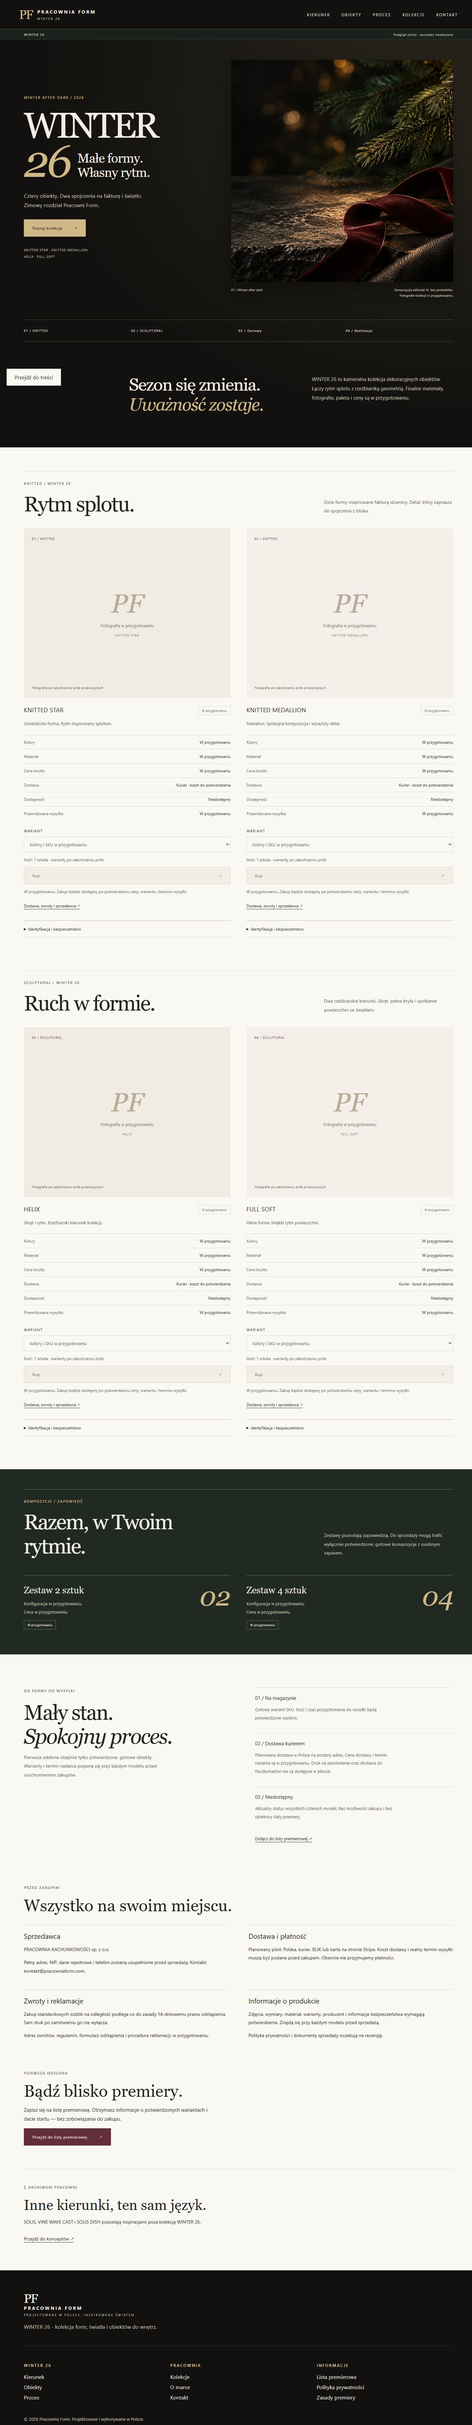
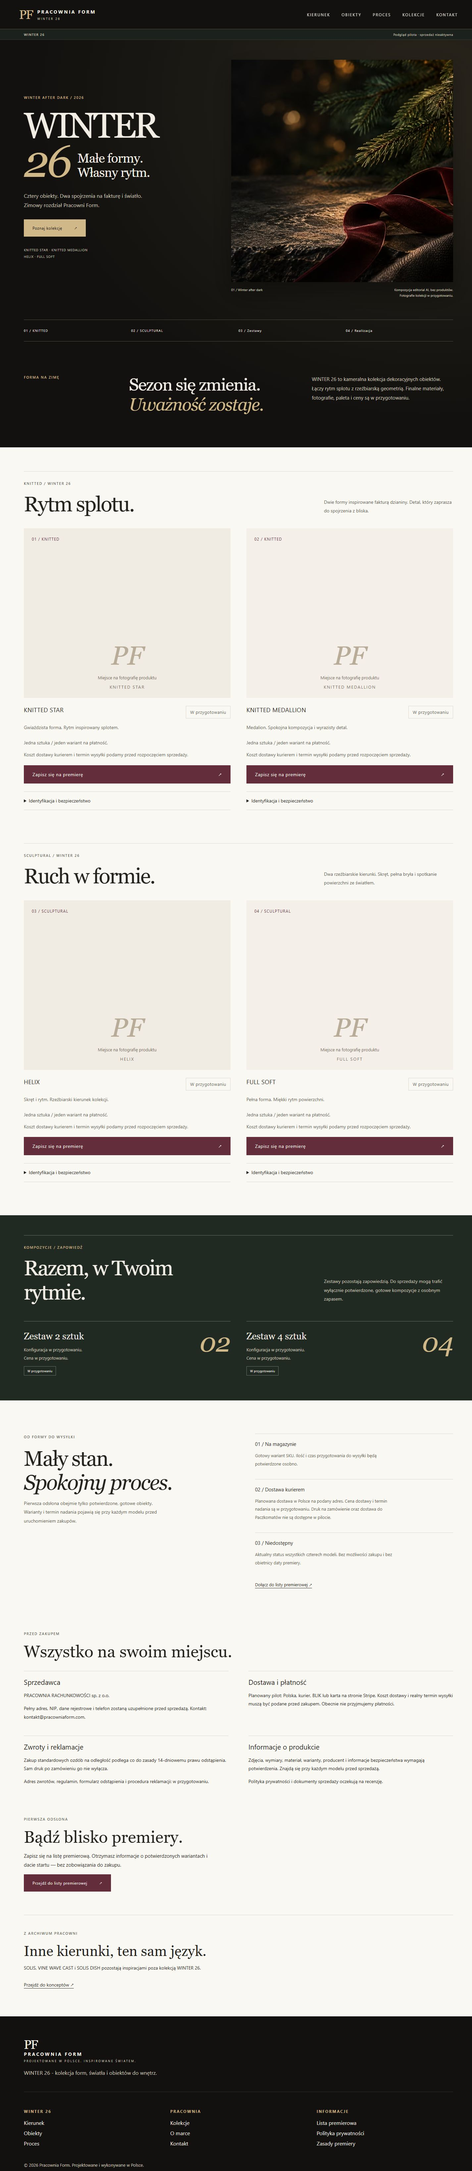
fix: simplify pilot preview cards after review

diff --git a/previews/lean-pilot/winter-26.html b/previews/lean-pilot/winter-26.html
@@ -89,22 +89,22 @@
 <main id="main"><div class="winter-opening"><section class="w26-hero shell" aria-labelledby="winter-title"><div class="w26-hero-copy"><p class="eyebrow">Winter after dark / 2026</p><h1 id="winter-title">WINTER<br><em>26</em><span>Małe formy.<br>Własny rytm.</span></h1><p>Cztery obiekty. Dwa spojrzenia na fakturę i światło. Zimowy rozdział Pracowni Form.</p><a class="editorial-button" href="#knitted">Poznaj kolekcję <span aria-hidden="true">↗</span></a><p class="hero-caption">KNITTED STAR · KNITTED MEDALLION<br>HELIX · FULL SOFT</p></div><figure class="w26-hero-art"><picture><source type="image/avif" srcset="assets/winter-r04-480.avif 480w, assets/winter-r04-768.avif 768w, assets/winter-r04-1024.avif 1024w, assets/winter-r04-1536.avif 1536w" sizes="(max-width: 600px) 135vw, (max-width: 1466px) 69.8vw, 1023px"><img src="assets/winter-r04-1024.webp" srcset="assets/winter-r04-480.webp 480w, assets/winter-r04-768.webp 768w, assets/winter-r04-1024.webp 1024w, assets/winter-r04-1536.webp 1536w" sizes="(max-width: 600px) 135vw, (max-width: 1466px) 69.8vw, 1023px" width="1536" height="1024" fetchpriority="high" alt="Editorial: igliwie, burgundowa wstążka i ciepłe światło na ciemnym kamieniu, bez produktów"></picture><figcaption>01 / Winter after dark <span>Kompozycja editorial AI, bez produktów.<br>Fotografie kolekcji w przygotowaniu.</span></figcaption></figure></section>
 <nav class="collection-nav shell" aria-label="Sekcje WINTER 26"><a href="#knitted">01 / KNITTED</a><a href="#sculptural">02 / SCULPTURAL</a><a href="#zestawy">03 / Zestawy</a><a href="#realizacja">04 / Realizacja</a></nav>
 <section class="w26-intro shell" id="kierunek"><p class="eyebrow">Forma na zimę</p><h2>Sezon się zmienia.<br><em>Uważność zostaje.</em></h2><p>WINTER 26 to kameralna kolekcja dekoracyjnych obiektów. Łączy rytm splotu z rzeźbiarską geometrią. Finalne materiały, fotografie, paleta i ceny są w przygotowaniu.</p></section></div><span id="obiekty" aria-hidden="true"></span><section class="family shell" id="knitted" aria-labelledby="title-knitted"><div class="family-heading"><div><p class="eyebrow">KNITTED / WINTER 26</p><h2 id="title-knitted">Rytm splotu.</h2></div><p>Dwie formy inspirowane fakturą dzianiny. Detal, który zaprasza do spojrzenia z bliska.</p></div><div class="product-grid"><article class="product-card" id="knitted-star" aria-labelledby="name-knitted-star">
-<div class="product-photo"><span class="photo-index">01 / KNITTED</span><div class="photo-placeholder"><span class="placeholder-mark" aria-hidden="true">PF</span><p>Fotografia w przygotowaniu</p><small>KNITTED STAR</small></div><span class="photo-caption">Fotografia po zakończeniu prób produkcyjnych</span></div>
+<div class="product-photo"><span class="photo-index">01 / KNITTED</span><div class="photo-placeholder"><span class="placeholder-mark" aria-hidden="true">PF</span><p>Miejsce na fotografię produktu</p><small>KNITTED STAR</small></div></div>
 <div class="product-heading"><h3 id="name-knitted-star">KNITTED STAR</h3><span class="status-pill">W przygotowaniu</span></div><p class="product-description">Gwiaździsta forma. Rytm inspirowany splotem.</p>
-<dl class="product-facts"><div><dt>Kolory</dt><dd>W przygotowaniu</dd></div><div><dt>Materiał</dt><dd>W przygotowaniu</dd></div><div><dt>Cena brutto</dt><dd>W przygotowaniu</dd></div><div><dt>Dostawa</dt><dd>Kurier · koszt do potwierdzenia</dd></div><div><dt>Dostępność</dt><dd>Niedostępny</dd></div><div><dt>Przewidywana wysyłka</dt><dd>W przygotowaniu</dd></div></dl>
-<div class="purchase-panel"><label for="variant-knitted-star">Wariant</label><select id="variant-knitted-star" disabled><option>Kolory i SKU w przygotowaniu</option></select><p class="purchase-quantity">Ilość: 1 sztuka · warianty po zakończeniu prób</p><button class="editorial-button purchase-button" type="button" disabled aria-describedby="note-knitted-star">Kup <span aria-hidden="true">↗</span></button><p class="purchase-note" id="note-knitted-star">W przygotowaniu. Zakup będzie dostępny po potwierdzeniu ceny, wariantu i terminu wysyłki.</p><a class="text-link" href="#przed-zakupem">Dostawa, zwroty i sprzedawca ↗</a></div><details class="product-details"><summary>Identyfikacja i bezpieczeństwo</summary><p>Model: KNITTED STAR. SKU wariantu, wymiary i identyfikator partii: do potwierdzenia.</p><p>Producent, adres pocztowy i kontakt elektroniczny: do potwierdzenia dla tego modelu. Dane sprzedawcy znajdują się w <a href="#przed-zakupem">kontakcie</a>.</p><p>Informacje bezpieczeństwa i instrukcja w języku polskim: w przygotowaniu po ocenie ryzyka i testach. Przed sprzedażą zostaną umieszczone także na produkcie, opakowaniu lub w dołączonej dokumentacji, odpowiednio do wymogów. Kod QR może je jedynie uzupełniać.</p></details></article><article class="product-card" id="knitted-medallion" aria-labelledby="name-knitted-medallion">
-<div class="product-photo"><span class="photo-index">02 / KNITTED</span><div class="photo-placeholder"><span class="placeholder-mark" aria-hidden="true">PF</span><p>Fotografia w przygotowaniu</p><small>KNITTED MEDALLION</small></div><span class="photo-caption">Fotografia po zakończeniu prób produkcyjnych</span></div>
+
+<div class="premiere-action"><p class="purchase-quantity">Jedna sztuka / jeden wariant na płatność.</p><p class="purchase-note">Koszt dostawy kurierem i termin wysyłki podamy przed rozpoczęciem sprzedaży.</p><a class="editorial-button" href="../../index.html#preorder">Zapisz się na premierę <span aria-hidden="true">↗</span></a></div><details class="product-details"><summary>Identyfikacja i bezpieczeństwo</summary><p>Dane producenta, identyfikacja produktu i informacje bezpieczeństwa zostaną potwierdzone po próbach produkcyjnych. Przed zakupem będą dostępne w karcie produktu.</p></details></article><article class="product-card" id="knitted-medallion" aria-labelledby="name-knitted-medallion">
+<div class="product-photo"><span class="photo-index">02 / KNITTED</span><div class="photo-placeholder"><span class="placeholder-mark" aria-hidden="true">PF</span><p>Miejsce na fotografię produktu</p><small>KNITTED MEDALLION</small></div></div>
 <div class="product-heading"><h3 id="name-knitted-medallion">KNITTED MEDALLION</h3><span class="status-pill">W przygotowaniu</span></div><p class="product-description">Medalion. Spokojna kompozycja i wyrazisty detal.</p>
-<dl class="product-facts"><div><dt>Kolory</dt><dd>W przygotowaniu</dd></div><div><dt>Materiał</dt><dd>W przygotowaniu</dd></div><div><dt>Cena brutto</dt><dd>W przygotowaniu</dd></div><div><dt>Dostawa</dt><dd>Kurier · koszt do potwierdzenia</dd></div><div><dt>Dostępność</dt><dd>Niedostępny</dd></div><div><dt>Przewidywana wysyłka</dt><dd>W przygotowaniu</dd></div></dl>
-<div class="purchase-panel"><label for="variant-knitted-medallion">Wariant</label><select id="variant-knitted-medallion" disabled><option>Kolory i SKU w przygotowaniu</option></select><p class="purchase-quantity">Ilość: 1 sztuka · warianty po zakończeniu prób</p><button class="editorial-button purchase-button" type="button" disabled aria-describedby="note-knitted-medallion">Kup <span aria-hidden="true">↗</span></button><p class="purchase-note" id="note-knitted-medallion">W przygotowaniu. Zakup będzie dostępny po potwierdzeniu ceny, wariantu i terminu wysyłki.</p><a class="text-link" href="#przed-zakupem">Dostawa, zwroty i sprzedawca ↗</a></div><details class="product-details"><summary>Identyfikacja i bezpieczeństwo</summary><p>Model: KNITTED MEDALLION. SKU wariantu, wymiary i identyfikator partii: do potwierdzenia.</p><p>Producent, adres pocztowy i kontakt elektroniczny: do potwierdzenia dla tego modelu. Dane sprzedawcy znajdują się w <a href="#przed-zakupem">kontakcie</a>.</p><p>Informacje bezpieczeństwa i instrukcja w języku polskim: w przygotowaniu po ocenie ryzyka i testach. Przed sprzedażą zostaną umieszczone także na produkcie, opakowaniu lub w dołączonej dokumentacji, odpowiednio do wymogów. Kod QR może je jedynie uzupełniać.</p></details></article></div></section><section class="family shell" id="sculptural" aria-labelledby="title-sculptural"><div class="family-heading"><div><p class="eyebrow">SCULPTURAL / WINTER 26</p><h2 id="title-sculptural">Ruch w formie.</h2></div><p>Dwa rzeźbiarskie kierunki. Skręt, pełna bryła i spotkanie powierzchni ze światłem.</p></div><div class="product-grid"><article class="product-card" id="helix" aria-labelledby="name-helix">
-<div class="product-photo"><span class="photo-index">03 / SCULPTURAL</span><div class="photo-placeholder"><span class="placeholder-mark" aria-hidden="true">PF</span><p>Fotografia w przygotowaniu</p><small>HELIX</small></div><span class="photo-caption">Fotografia po zakończeniu prób produkcyjnych</span></div>
+
+<div class="premiere-action"><p class="purchase-quantity">Jedna sztuka / jeden wariant na płatność.</p><p class="purchase-note">Koszt dostawy kurierem i termin wysyłki podamy przed rozpoczęciem sprzedaży.</p><a class="editorial-button" href="../../index.html#preorder">Zapisz się na premierę <span aria-hidden="true">↗</span></a></div><details class="product-details"><summary>Identyfikacja i bezpieczeństwo</summary><p>Dane producenta, identyfikacja produktu i informacje bezpieczeństwa zostaną potwierdzone po próbach produkcyjnych. Przed zakupem będą dostępne w karcie produktu.</p></details></article></div></section><section class="family shell" id="sculptural" aria-labelledby="title-sculptural"><div class="family-heading"><div><p class="eyebrow">SCULPTURAL / WINTER 26</p><h2 id="title-sculptural">Ruch w formie.</h2></div><p>Dwa rzeźbiarskie kierunki. Skręt, pełna bryła i spotkanie powierzchni ze światłem.</p></div><div class="product-grid"><article class="product-card" id="helix" aria-labelledby="name-helix">
+<div class="product-photo"><span class="photo-index">03 / SCULPTURAL</span><div class="photo-placeholder"><span class="placeholder-mark" aria-hidden="true">PF</span><p>Miejsce na fotografię produktu</p><small>HELIX</small></div></div>
 <div class="product-heading"><h3 id="name-helix">HELIX</h3><span class="status-pill">W przygotowaniu</span></div><p class="product-description">Skręt i rytm. Rzeźbiarski kierunek kolekcji.</p>
-<dl class="product-facts"><div><dt>Kolory</dt><dd>W przygotowaniu</dd></div><div><dt>Materiał</dt><dd>W przygotowaniu</dd></div><div><dt>Cena brutto</dt><dd>W przygotowaniu</dd></div><div><dt>Dostawa</dt><dd>Kurier · koszt do potwierdzenia</dd></div><div><dt>Dostępność</dt><dd>Niedostępny</dd></div><div><dt>Przewidywana wysyłka</dt><dd>W przygotowaniu</dd></div></dl>
-<div class="purchase-panel"><label for="variant-helix">Wariant</label><select id="variant-helix" disabled><option>Kolory i SKU w przygotowaniu</option></select><p class="purchase-quantity">Ilość: 1 sztuka · warianty po zakończeniu prób</p><button class="editorial-button purchase-button" type="button" disabled aria-describedby="note-helix">Kup <span aria-hidden="true">↗</span></button><p class="purchase-note" id="note-helix">W przygotowaniu. Zakup będzie dostępny po potwierdzeniu ceny, wariantu i terminu wysyłki.</p><a class="text-link" href="#przed-zakupem">Dostawa, zwroty i sprzedawca ↗</a></div><details class="product-details"><summary>Identyfikacja i bezpieczeństwo</summary><p>Model: HELIX. SKU wariantu, wymiary i identyfikator partii: do potwierdzenia.</p><p>Producent, adres pocztowy i kontakt elektroniczny: do potwierdzenia dla tego modelu. Dane sprzedawcy znajdują się w <a href="#przed-zakupem">kontakcie</a>.</p><p>Informacje bezpieczeństwa i instrukcja w języku polskim: w przygotowaniu po ocenie ryzyka i testach. Przed sprzedażą zostaną umieszczone także na produkcie, opakowaniu lub w dołączonej dokumentacji, odpowiednio do wymogów. Kod QR może je jedynie uzupełniać.</p></details></article><article class="product-card" id="full-soft" aria-labelledby="name-full-soft">
-<div class="product-photo"><span class="photo-index">04 / SCULPTURAL</span><div class="photo-placeholder"><span class="placeholder-mark" aria-hidden="true">PF</span><p>Fotografia w przygotowaniu</p><small>FULL SOFT</small></div><span class="photo-caption">Fotografia po zakończeniu prób produkcyjnych</span></div>
+
+<div class="premiere-action"><p class="purchase-quantity">Jedna sztuka / jeden wariant na płatność.</p><p class="purchase-note">Koszt dostawy kurierem i termin wysyłki podamy przed rozpoczęciem sprzedaży.</p><a class="editorial-button" href="../../index.html#preorder">Zapisz się na premierę <span aria-hidden="true">↗</span></a></div><details class="product-details"><summary>Identyfikacja i bezpieczeństwo</summary><p>Dane producenta, identyfikacja produktu i informacje bezpieczeństwa zostaną potwierdzone po próbach produkcyjnych. Przed zakupem będą dostępne w karcie produktu.</p></details></article><article class="product-card" id="full-soft" aria-labelledby="name-full-soft">
+<div class="product-photo"><span class="photo-index">04 / SCULPTURAL</span><div class="photo-placeholder"><span class="placeholder-mark" aria-hidden="true">PF</span><p>Miejsce na fotografię produktu</p><small>FULL SOFT</small></div></div>
 <div class="product-heading"><h3 id="name-full-soft">FULL SOFT</h3><span class="status-pill">W przygotowaniu</span></div><p class="product-description">Pełna forma. Miękki rytm powierzchni.</p>
-<dl class="product-facts"><div><dt>Kolory</dt><dd>W przygotowaniu</dd></div><div><dt>Materiał</dt><dd>W przygotowaniu</dd></div><div><dt>Cena brutto</dt><dd>W przygotowaniu</dd></div><div><dt>Dostawa</dt><dd>Kurier · koszt do potwierdzenia</dd></div><div><dt>Dostępność</dt><dd>Niedostępny</dd></div><div><dt>Przewidywana wysyłka</dt><dd>W przygotowaniu</dd></div></dl>
-<div class="purchase-panel"><label for="variant-full-soft">Wariant</label><select id="variant-full-soft" disabled><option>Kolory i SKU w przygotowaniu</option></select><p class="purchase-quantity">Ilość: 1 sztuka · warianty po zakończeniu prób</p><button class="editorial-button purchase-button" type="button" disabled aria-describedby="note-full-soft">Kup <span aria-hidden="true">↗</span></button><p class="purchase-note" id="note-full-soft">W przygotowaniu. Zakup będzie dostępny po potwierdzeniu ceny, wariantu i terminu wysyłki.</p><a class="text-link" href="#przed-zakupem">Dostawa, zwroty i sprzedawca ↗</a></div><details class="product-details"><summary>Identyfikacja i bezpieczeństwo</summary><p>Model: FULL SOFT. SKU wariantu, wymiary i identyfikator partii: do potwierdzenia.</p><p>Producent, adres pocztowy i kontakt elektroniczny: do potwierdzenia dla tego modelu. Dane sprzedawcy znajdują się w <a href="#przed-zakupem">kontakcie</a>.</p><p>Informacje bezpieczeństwa i instrukcja w języku polskim: w przygotowaniu po ocenie ryzyka i testach. Przed sprzedażą zostaną umieszczone także na produkcie, opakowaniu lub w dołączonej dokumentacji, odpowiednio do wymogów. Kod QR może je jedynie uzupełniać.</p></details></article></div></section>
+
+<div class="premiere-action"><p class="purchase-quantity">Jedna sztuka / jeden wariant na płatność.</p><p class="purchase-note">Koszt dostawy kurierem i termin wysyłki podamy przed rozpoczęciem sprzedaży.</p><a class="editorial-button" href="../../index.html#preorder">Zapisz się na premierę <span aria-hidden="true">↗</span></a></div><details class="product-details"><summary>Identyfikacja i bezpieczeństwo</summary><p>Dane producenta, identyfikacja produktu i informacje bezpieczeństwa zostaną potwierdzone po próbach produkcyjnych. Przed zakupem będą dostępne w karcie produktu.</p></details></article></div></section>
 <section class="sets-section" id="zestawy"><div class="shell"><div class="family-heading"><div><p class="eyebrow">Kompozycje / zapowiedź</p><h2>Razem, w Twoim rytmie.</h2></div><p>Zestawy pozostają zapowiedzią. Do sprzedaży mogą trafić wyłącznie potwierdzone, gotowe kompozycje z osobnym zapasem.</p></div><div class="sets-grid"><article><span class="set-number">02</span><h3>Zestaw 2 sztuk</h3><p>Konfiguracja w przygotowaniu.<br>Cena w przygotowaniu.</p><span class="status-pill">W przygotowaniu</span></article><article><span class="set-number">04</span><h3>Zestaw 4 sztuk</h3><p>Konfiguracja w przygotowaniu.<br>Cena w przygotowaniu.</p><span class="status-pill">W przygotowaniu</span></article></div></div></section>
 <span id="proces" aria-hidden="true"></span><section class="fulfilment shell" id="realizacja"><div><p class="eyebrow">Od formy do wysyłki</p><h2>Mały stan.<br><em>Spokojny proces.</em></h2><p>Pierwsza odsłona obejmie tylko potwierdzone, gotowe obiekty. Warianty i termin nadania pojawią się przy każdym modelu przed uruchomieniem zakupów.</p></div><div class="fulfilment-list"><article><h3>01 / Na magazynie</h3><p>Gotowy wariant SKU. Ilość i czas przygotowania do wysyłki będą potwierdzone osobno.</p></article><article><h3>02 / Dostawa kurierem</h3><p>Planowana dostawa w Polsce na podany adres. Cena dostawy i termin nadania są w przygotowaniu. Druk na zamówienie oraz dostawa do Paczkomatów nie są dostępne w pilocie.</p></article><article><h3>03 / Niedostępny</h3><p>Aktualny status wszystkich czterech modeli. Bez możliwości zakupu i bez obietnicy daty premiery.</p></article><a class="text-link" href="../../index.html#preorder">Dołącz do listy premierowej ↗</a></div></section>
 <section class="pilot-info shell" id="przed-zakupem" aria-labelledby="pilot-info-title"><p class="eyebrow">Przed zakupem</p><h2 id="pilot-info-title">Wszystko na swoim miejscu.</h2><div class="pilot-info-grid"><article><h3>Sprzedawca</h3><p>PRACOWNIA RACHUNKOWOŚCI sp. z o.o.</p><p>Pełny adres, NIP, dane rejestrowe i telefon zostaną uzupełnione przed sprzedażą. Kontakt: kontakt@pracowniaform.com.</p></article><article><h3>Dostawa i płatność</h3><p>Planowany pilot: Polska, kurier, BLIK lub karta na stronie Stripe. Koszt dostawy i realny termin wysyłki muszą być podane przed zakupem. Obecnie nie przyjmujemy płatności.</p></article><article><h3>Zwroty i reklamacje</h3><p>Zakup standardowych ozdób na odległość podlega co do zasady 14-dniowemu prawu odstąpienia. Sam druk po zamówieniu go nie wyłącza.</p><p>Adres zwrotów, regulamin, formularz odstąpienia i procedura reklamacji: w przygotowaniu.</p></article><article><h3>Informacje o produkcie</h3><p>Zdjęcia, wymiary, materiał, warianty, producent i informacje bezpieczeństwa wymagają potwierdzenia. Znajdą się przy każdym modelu przed sprzedażą.</p><p>Polityka prywatności i dokumenty sprzedaży oczekują na recenzję.</p></article></div></section><section class="premiere-section shell" aria-labelledby="premiere-title"><p class="eyebrow">Pierwsza odsłona</p><h2 id="premiere-title">Bądź blisko premiery.</h2><p>Zapisz się na listę premierową. Otrzymasz informacje o potwierdzonych wariantach i dacie startu — bez zobowiązania do zakupu.</p><a class="editorial-button" href="../../index.html#preorder">Przejdź do listy premierowej <span aria-hidden="true">↗</span></a></section><section class="archive-link shell"><p class="eyebrow">Z archiwum pracowni</p><h2>Inne kierunki, ten sam język.</h2><p>SOLIS, VINE WAVE CAST i SOLIS DISH pozostają inspiracjami poza kolekcją WINTER 26.</p><a class="text-link" href="../../index.html#kolekcje">Przejdź do konceptów ↗</a></section></main>

diff --git a/previews/lean-pilot/pilot.css b/previews/lean-pilot/pilot.css
@@ -1,10 +1,14 @@
-/* Purchase placeholders only; approved R04 composition and palette are unchanged. */
-.purchase-panel { padding: 24px 0; border-bottom: 1px solid var(--rule); }
-.purchase-panel label { display: block; font-size: 11px; letter-spacing: .12em; text-transform: uppercase; margin-bottom: 10px; }
-.purchase-panel select { width: 100%; padding: 13px; background: var(--paper); color: var(--muted); border: 1px solid var(--rule); border-radius: 0; font: inherit; font-size: 13px; opacity: 1; }
-.purchase-quantity, .purchase-note { font-size: 12px; line-height: 1.7; color: var(--muted); }
-.purchase-button { width: 100%; justify-content: space-between; background: var(--surface); color: var(--muted); border: 1px solid var(--rule); cursor: not-allowed; opacity: 1; font-family: var(--sans); }
-.purchase-panel .text-link { font-size: 12px; }
+/* Preview UX refinement only; approved R04 composition and palette stay intact. */
+.product-card .status-pill { font-size: 13px; line-height: 1.5; padding: 8px 12px; }
+.product-card .product-description { font-size: 14px; }
+.product-card .photo-index { font-size: 12px; }
+.product-card .photo-placeholder small { font-size: 13px; }
+.premiere-action { padding: 8px 0 24px; }
+.purchase-quantity, .purchase-note { font-size: 14px; line-height: 1.7; color: var(--muted); margin: 0 0 12px; }
+.premiere-action .editorial-button { width: 100%; min-height: 48px; font-size: 14px; gap: 16px; margin-top: 8px; }
+.product-card .product-details summary { font-size: 14px; line-height: 1.6; min-height: 48px; padding: 16px 0; }
+.product-card .product-details p { font-size: 14px; line-height: 1.8; }
+.product-card a:focus-visible, .product-card summary:focus-visible { outline: 3px solid var(--burgundy); outline-offset: 4px; }
 .pilot-info { padding-block: 20px 80px; scroll-margin-top: 110px; }
 .pilot-info h2 { font-size: clamp(32px, 4vw, 50px); }
 .pilot-info-grid { display: grid; grid-template-columns: repeat(2, minmax(0, 1fr)); gap: 30px 60px; margin-top: 30px; }

diff --git a/docs/STRIPE_LEAN_PILOT.md b/docs/STRIPE_LEAN_PILOT.md
@@ -74,6 +74,8 @@ Nakład własny, **szacunek do planowania**: A 12–24 h przygotowania po dostar
 - [ ] GPSR: ustalić producenta, adres pocztowy i elektroniczny, identyfikację produktu/partii, ocenę ryzyka, instrukcje i ostrzeżenia oraz dane wymagane w ofercie; QR nie zastępuje oznakowania. [UOKiK — obowiązki](https://www.uokik.gov.pl/public/bezpieczenstwo-produktow-obowiazki-przedsiebiorcow).
 - [ ] Księgowość ustala VAT, dokument sprzedaży, ewidencję/kasę i obowiązek KSeF dla **całej spółki**, nie tylko małego pilota. Stripe receipt jest potwierdzeniem płatności, nie automatycznie polską fakturą ani dokumentem KSeF. B2C nie ma obowiązku KSeF; przejściowy limit 10 tys. zł dla faktur poza KSeF kończy się z końcem 2026 r. — nie zakładać, że spółka go spełnia. [MF — KSeF](https://ksef.podatki.gov.pl/ponizej-10-000-zl/).
 - [ ] Zatwierdzić hosting, umowę Stripe/KYC i nadania InPost; przetestować eksport i odtwarzanie rejestru. Konta należą do spółki, MFA, minimalne uprawnienia, bez sekretów w repo.
+- [ ] Osobny PR publikacyjny ma połączyć potrzebne zmiany PR #5 i #10 z aktualnym `main`; nie kopiować całej makiety. Usunąć sprzeczny komunikat strony głównej „Nie projektujemy sezonowych dekoracji”. Zastąpić placeholdery prawne prawdziwymi, zatwierdzonymi stronami.
+- [ ] Przed aktywacją gotowego SKU zastąpić zapowiedź prawdziwą fotografią, ceną brutto, materiałem, wariantem, terminem i CTA. Jedna sztuka / jeden wariant na płatność oraz **zatwierdzony koszt dostawy** muszą być widoczne przed CTA; policzyć marżę z opakowaniem i kurierem. Obowiązkowych danych oferty GPSR nie ukrywać wyłącznie w zwiniętym `<details>`; przegląd konkretnych kart jest warunkiem startu.
 - [ ] Zachować domenę i `.html` URL-e, HTTPS i przekierowania; formularz Brevo, double opt-in, strony potwierdzeń, zgody i analitykę po zgodzie. Migracja hostingu nie może podmienić formularza na płatny formularz platformy. Osobno sprawdzić canonical/sitemap oraz usunąć zabezpieczenia **mocka** z przyszłego pakietu produkcyjnego. Ten PR nie jest takim pakietem.
 
 ## Sandbox i późniejsza migracja
@@ -86,6 +88,6 @@ Wiosną 2027 sprawdzić popyt i nakład obsługi; Woo nie jest automatycznym nas
 
 ## Dostarczony projekt
 
-[Lokalna makieta](../previews/lean-pilot/winter-26.html) wykorzystuje R04 z PR #5, commit `f97fcd6`, z czterema nieaktywnymi CTA, polami wariantów i sekcją informacji przed zakupem. [Instrukcja podglądu](../previews/lean-pilot/README.md). Root strony, Brevo i skrypt zgód pozostają identyczne z bazowym `main` `38e0bd9`. Brak live/test Payment Links i danych osobowych. PR #4/#5/#7/#8, hosting i DNS bez zmian; nic nie opublikowano.
+[Lokalna makieta](../previews/lean-pilot/winter-26.html) wykorzystuje R04 z PR #5, commit `f97fcd6`, z czterema kartami zapowiedzi (jeden status i zapis na premierę), bez selektorów wariantów ani przycisków zakupu, z sekcją informacji przed zakupem. [Instrukcja podglądu](../previews/lean-pilot/README.md). Root strony, Brevo i skrypt zgód pozostają identyczne z bazowym `main` `38e0bd9`. Brak live/test Payment Links i danych osobowych. PR #4/#5/#7/#8, hosting i DNS bez zmian; nic nie opublikowano.
 
-Walidacja: desktop 1440 px / mobile 390 px bez poziomego overflow, poprawny hero, 4 wyłączone CTA, brak błędów konsoli. Zgodność plików R04 i niezmienność produkcji sprawdzona; kwoty przeliczone niezależnie. [Podglądy i granice testów](../previews/lean-pilot/README.md#sprawdzenie-03112026).
+Walidacja: desktop 1440 px / mobile 390 i 320 px bez poziomego overflow, poprawny hero, 4 linki do listy premierowej i brak CTA zakupu, brak błędów konsoli. Zgodność plików R04 i niezmienność produkcji sprawdzona; kwoty przeliczone niezależnie. [Podglądy i granice testów](../previews/lean-pilot/README.md#sprawdzenie-03112026).

diff --git a/previews/lean-pilot/README.md b/previews/lean-pilot/README.md
@@ -3,7 +3,7 @@
 Uruchom w katalogu repo: `python -m http.server 8766 --bind 127.0.0.1`.
 Otwórz `http://127.0.0.1:8766/previews/lean-pilot/winter-26.html`.
 
-R04 (HTML jako punkt wyjścia, CSS i zoptymalizowane AVIF/WebP bez zmian) pochodzi z PR #5, commit `f97fcd65f2625dcc4f18aabf65c3a8e467a5a947`. Wspólne style i skrypt są odczytywane z root repo. Dodatki dotyczą wyłącznie pilota: cztery wyłączone przyciski Kup, niezatwierdzone warianty, kurier, informacje przed zakupem. Hero pozostaje neutralnym editorialem bez produktu.
+R04 (HTML jako punkt wyjścia, CSS i zoptymalizowane AVIF/WebP bez zmian) pochodzi z PR #5, commit `f97fcd65f2625dcc4f18aabf65c3a8e467a5a947`. Wspólne style i skrypt są odczytywane z root repo. Dodatki dotyczą wyłącznie pilota: cztery karty zapowiedzi z jednym statusem i zapisem na premierę, bez pustych pól, selektorów i przycisków Kup; kurier i informacje przed zakupem. Hero pozostaje neutralnym editorialem bez produktu.
 
 To oddzielny materiał do przeglądu, **nie pliki do wdrożenia**. `noindex`, brak ID analityki i CSP blokujący połączenia/formularze są celowe tylko tutaj. Brak formularza zamówienia, sekretów i linków Stripe. Nie kopiować tych ustawień do produkcji. Link do listy premierowej prowadzi do istniejącej strony — nie używano go do zapisu danych testowych.
 
@@ -11,7 +11,7 @@ Root `index.html`, `script.js`, dokumenty i pozostałe pliki produkcyjne są nie
 
 ## Sprawdzenie 03.11.2026
 
-Odczyt DOM przy 1440 i 390 px: brak poziomego overflow, cztery wyłączone CTA, cztery karty i poprawnie załadowany hero. Brak błędów/ostrzeżeń konsoli. Sprawdzono zgodność CSS/obrazów z R04, poprawność lokalnych odnośników, brak formularza/linków płatniczych oraz niezmienność plików produkcji. Obliczenia prowizji i wydatków 3/6 miesięcy sprawdzono niezależnie z Decimal.
+Po recenzji: odczyt DOM przy 1440, 390 i 320 px bez poziomego overflow. Cztery karty, każda z jednym statusem „W przygotowaniu” i linkiem do istniejącej listy premierowej; brak selektorów i przycisków zakupu. Status 13 px; teksty informacyjne, CTA i szczegóły 14 px. Przy 390 px CTA ma 55 px wysokości, summary 54,39 px. Rozwijanie szczegółów sprawdzone klawiszem Enter. Kontrast sprawdzonych par: status/treść 6,16:1, CTA 10,26:1, szczegóły 7,04:1, etykieta fotografii 5,65:1. To kontrola zmienionych kart, nie pełny audyt WCAG. Hero poprawnie załadowany i bez zmian. Brak błędów/ostrzeżeń konsoli. Sprawdzono zgodność CSS/obrazów z R04, poprawność lokalnych odnośników, brak formularza/linków płatniczych oraz niezmienność plików produkcji. Obliczenia prowizji i wydatków 3/6 miesięcy sprawdzono niezależnie z Decimal.
 
 Sandbox Stripe, wysyłki, migracja DNS i prawdziwy zapis Brevo **nie były uruchamiane**. Nie jest to odbiór sprzedaży produkcyjnej.
 
@@ -19,4 +19,4 @@ Sandbox Stripe, wysyłki, migracja DNS i prawdziwy zapis Brevo **nie były uruch
 
 ![Desktop — R04](../../docs/previews/lean-desktop.jpg)
 
-![Mobile — karta i nieaktywny zakup](../../docs/previews/lean-mobile.jpg)
+![Mobile — uproszczona karta i zapis na premierę](../../docs/previews/lean-mobile.jpg)
